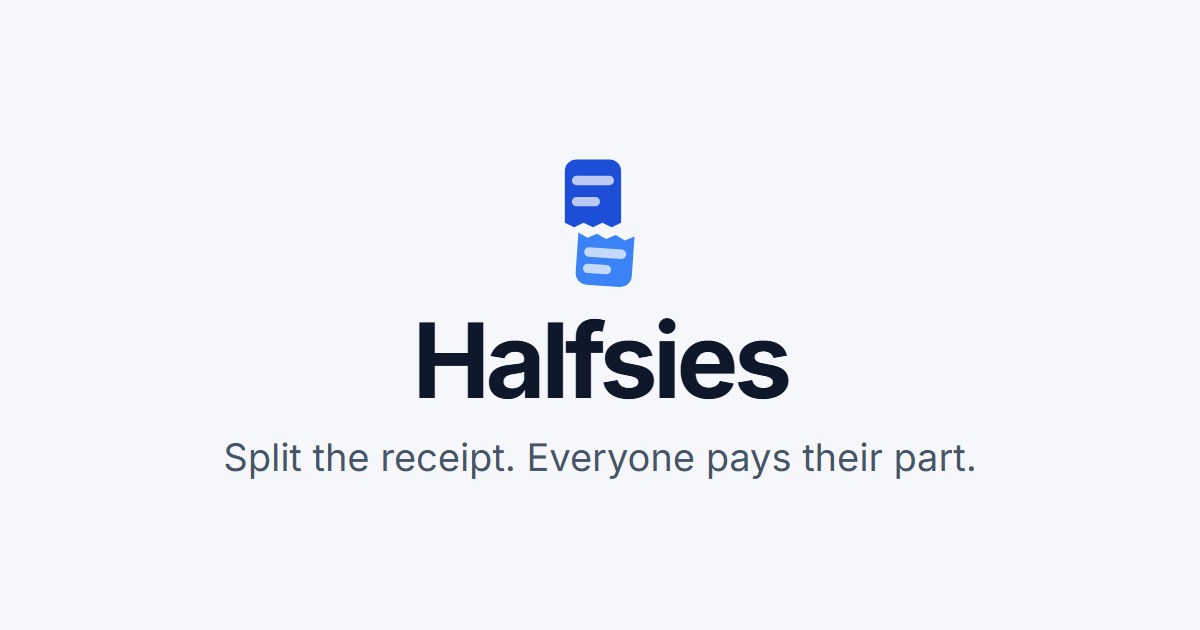
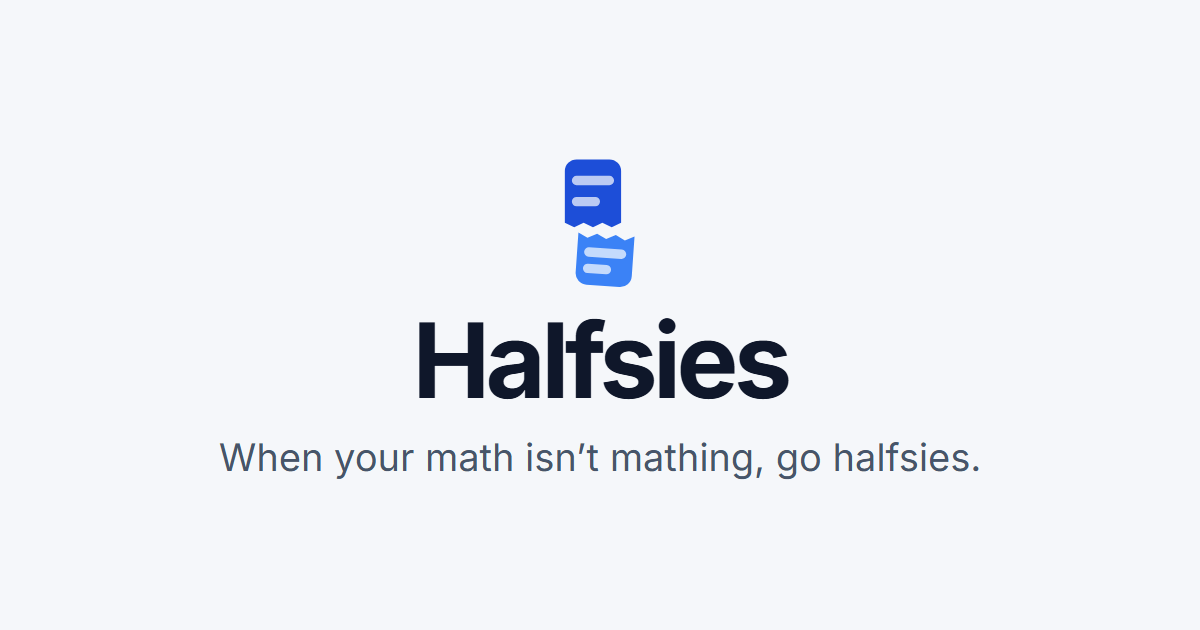
tagline: when your math isn't mathing, go halfsies
Claude-Session: https://claude.ai/code/session_01SBpWod84jU3ShogxwukcZb

Changed region(s): [[0.185, 0.6937, 0.8325, 0.754]]

diff --git a/index.html b/index.html
@@ -15,13 +15,13 @@
   <meta property="og:type" content="website" />
   <meta property="og:site_name" content="Halfsies" />
   <meta property="og:title" content="Halfsies" />
-  <meta property="og:description" content="Split the receipt. Everyone pays their part." />
+  <meta property="og:description" content="When your math isn't mathing, go halfsies." />
   <meta property="og:image" content="https://receipt-splitter-seven-chi.vercel.app/og.png" />
   <meta property="og:image:width" content="1200" />
   <meta property="og:image:height" content="630" />
   <meta name="twitter:card" content="summary_large_image" />
   <meta name="twitter:title" content="Halfsies" />
-  <meta name="twitter:description" content="Split the receipt. Everyone pays their part." />
+  <meta name="twitter:description" content="When your math isn't mathing, go halfsies." />
   <meta name="twitter:image" content="https://receipt-splitter-seven-chi.vercel.app/og.png" />
 
   <link rel="preconnect" href="https://fonts.googleapis.com" />

diff --git a/src/components/Landing.jsx b/src/components/Landing.jsx
@@ -226,7 +226,7 @@ function Marketing({ onStart }) {
     <div className="market">
       <div className="mk-hero">
         <Mark size={56} tone="light" />
-        <h1>Split the receipt. Everyone pays their part.</h1>
+        <h1>When your math isn't mathing, go halfsies.</h1>
         <p>
           Take a photo of the receipt, tap who had what, and everyone gets their number with tax and tip included.
           Then they pay you with Venmo, Cash App, Zelle or Apple Pay.
